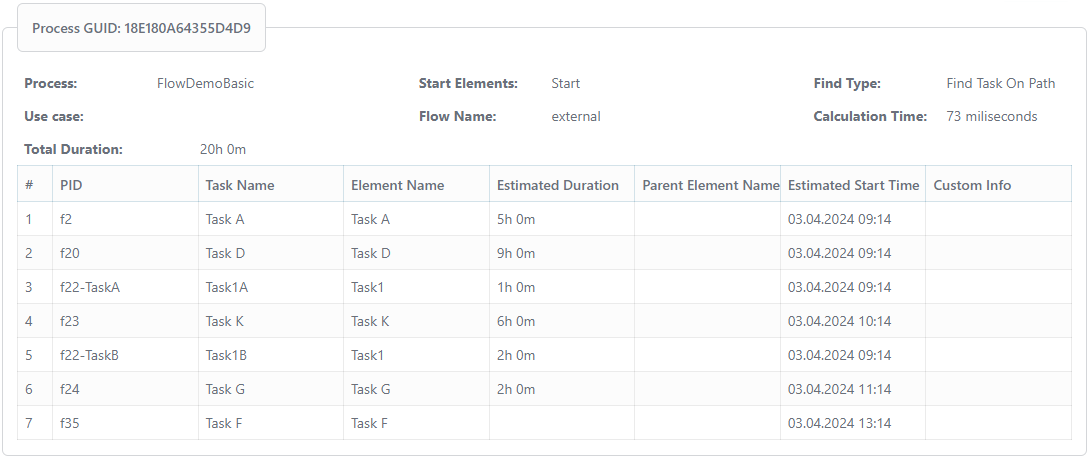
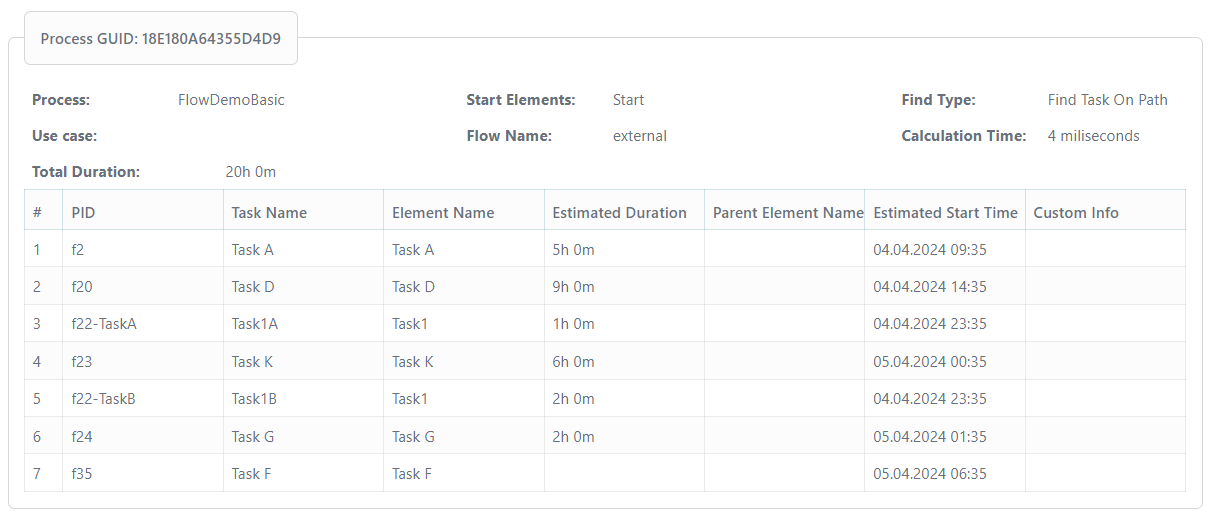
TE-555: Fix bug calculate start time

diff --git a/process-analyzer/src/com/axonivy/utils/process/analyzer/internal/ProcessAnalyzer.java b/process-analyzer/src/com/axonivy/utils/process/analyzer/internal/ProcessAnalyzer.java
@@ -113,7 +113,7 @@ public abstract class ProcessAnalyzer {
 				var tasks = convertToDetectedElementFromTaskParallelGroup((TaskParallelGroup) element, useCase, startAtTime);
 				if (isNotEmpty(tasks)) {
 					result.addAll(tasks);
-					startAtTime = getMaxEndTimestamp(result);
+					startAtTime = getMaxEndTimestamp(tasks);
 				}
 				continue;
 			}
@@ -122,7 +122,10 @@ public abstract class ProcessAnalyzer {
 			if (element.getElement() instanceof SingleTaskCreator) {
 				SingleTaskCreator singleTask = (SingleTaskCreator)element.getElement();
 				var detectedTask = createDetectedTask(singleTask, singleTask.getTaskConfig(), startAtTime, useCase);
-				result.add(detectedTask);
+				if (detectedTask != null) {
+					result.add(detectedTask);
+					startAtTime = getEndTimestamp(result, startedAt);
+				}
 				continue;
 			}
 			
@@ -130,8 +133,10 @@ public abstract class ProcessAnalyzer {
 				SequenceFlow sequenceFlow = (SequenceFlow) element.getElement();
 				if (sequenceFlow.getSource() instanceof TaskSwitchGateway) {
 					var startTask = createStartTaskFromTaskSwitchGateway(sequenceFlow, startAtTime, useCase);
-					result.add(startTask);					
-					startAtTime = getEndTimestamp(result, startedAt);
+					if (startTask != null) {
+						result.add(startTask);
+						startAtTime = getEndTimestamp(result, startedAt);
+					}
 					continue;
 				}
 			}

diff --git a/process-analyzer-test/src_test/com/axonivy/utils/process/analyzer/test/FlowParallelInOrderTest.java b/process-analyzer-test/src_test/com/axonivy/utils/process/analyzer/test/FlowParallelInOrderTest.java
@@ -37,7 +37,14 @@ public class FlowParallelInOrderTest extends FlowExampleTest {
 
 		var expected = Arrays.array("Task 1A", "Task A", "Task B", "Task 1B",  "Task C", "Task D");
 		var taskNames = getTaskNames(detectedTasks);
-		assertArrayEquals(expected, taskNames);
+		assertArrayEquals(expected, taskNames);			
+	}
+	
+	@Test
+	void shouldSetRightStartTimestampForTaskD() throws Exception {
+		var processAnalyzer = new AdvancedProcessAnalyzer(process, null, null);
+		var start = ProcessGraphHelper.findByElementName(process, "start");
+		List<DetectedTask> detectedTasks = processAnalyzer.findTasksOnPath(start).stream().map(DetectedTask.class::cast).toList();
 		
 		DetectedTask taskD = detectedTasks.stream().filter(it -> it.getTaskName().equals("Task D")).findFirst().orElse(null);
 		DetectedTask taskB = detectedTasks.stream().filter(it -> it.getTaskName().equals("Task B")).findFirst().orElse(null);
@@ -48,8 +55,6 @@ public class FlowParallelInOrderTest extends FlowExampleTest {
 		
 		assertEquals(maxTimeFromBC.getTime(), taskD.getEstimatedStartTimestamp().getTime());	
 	}
-	
-	
 	
 	@Test
 	void shouldFindAllTasksAtStart2() throws Exception {
